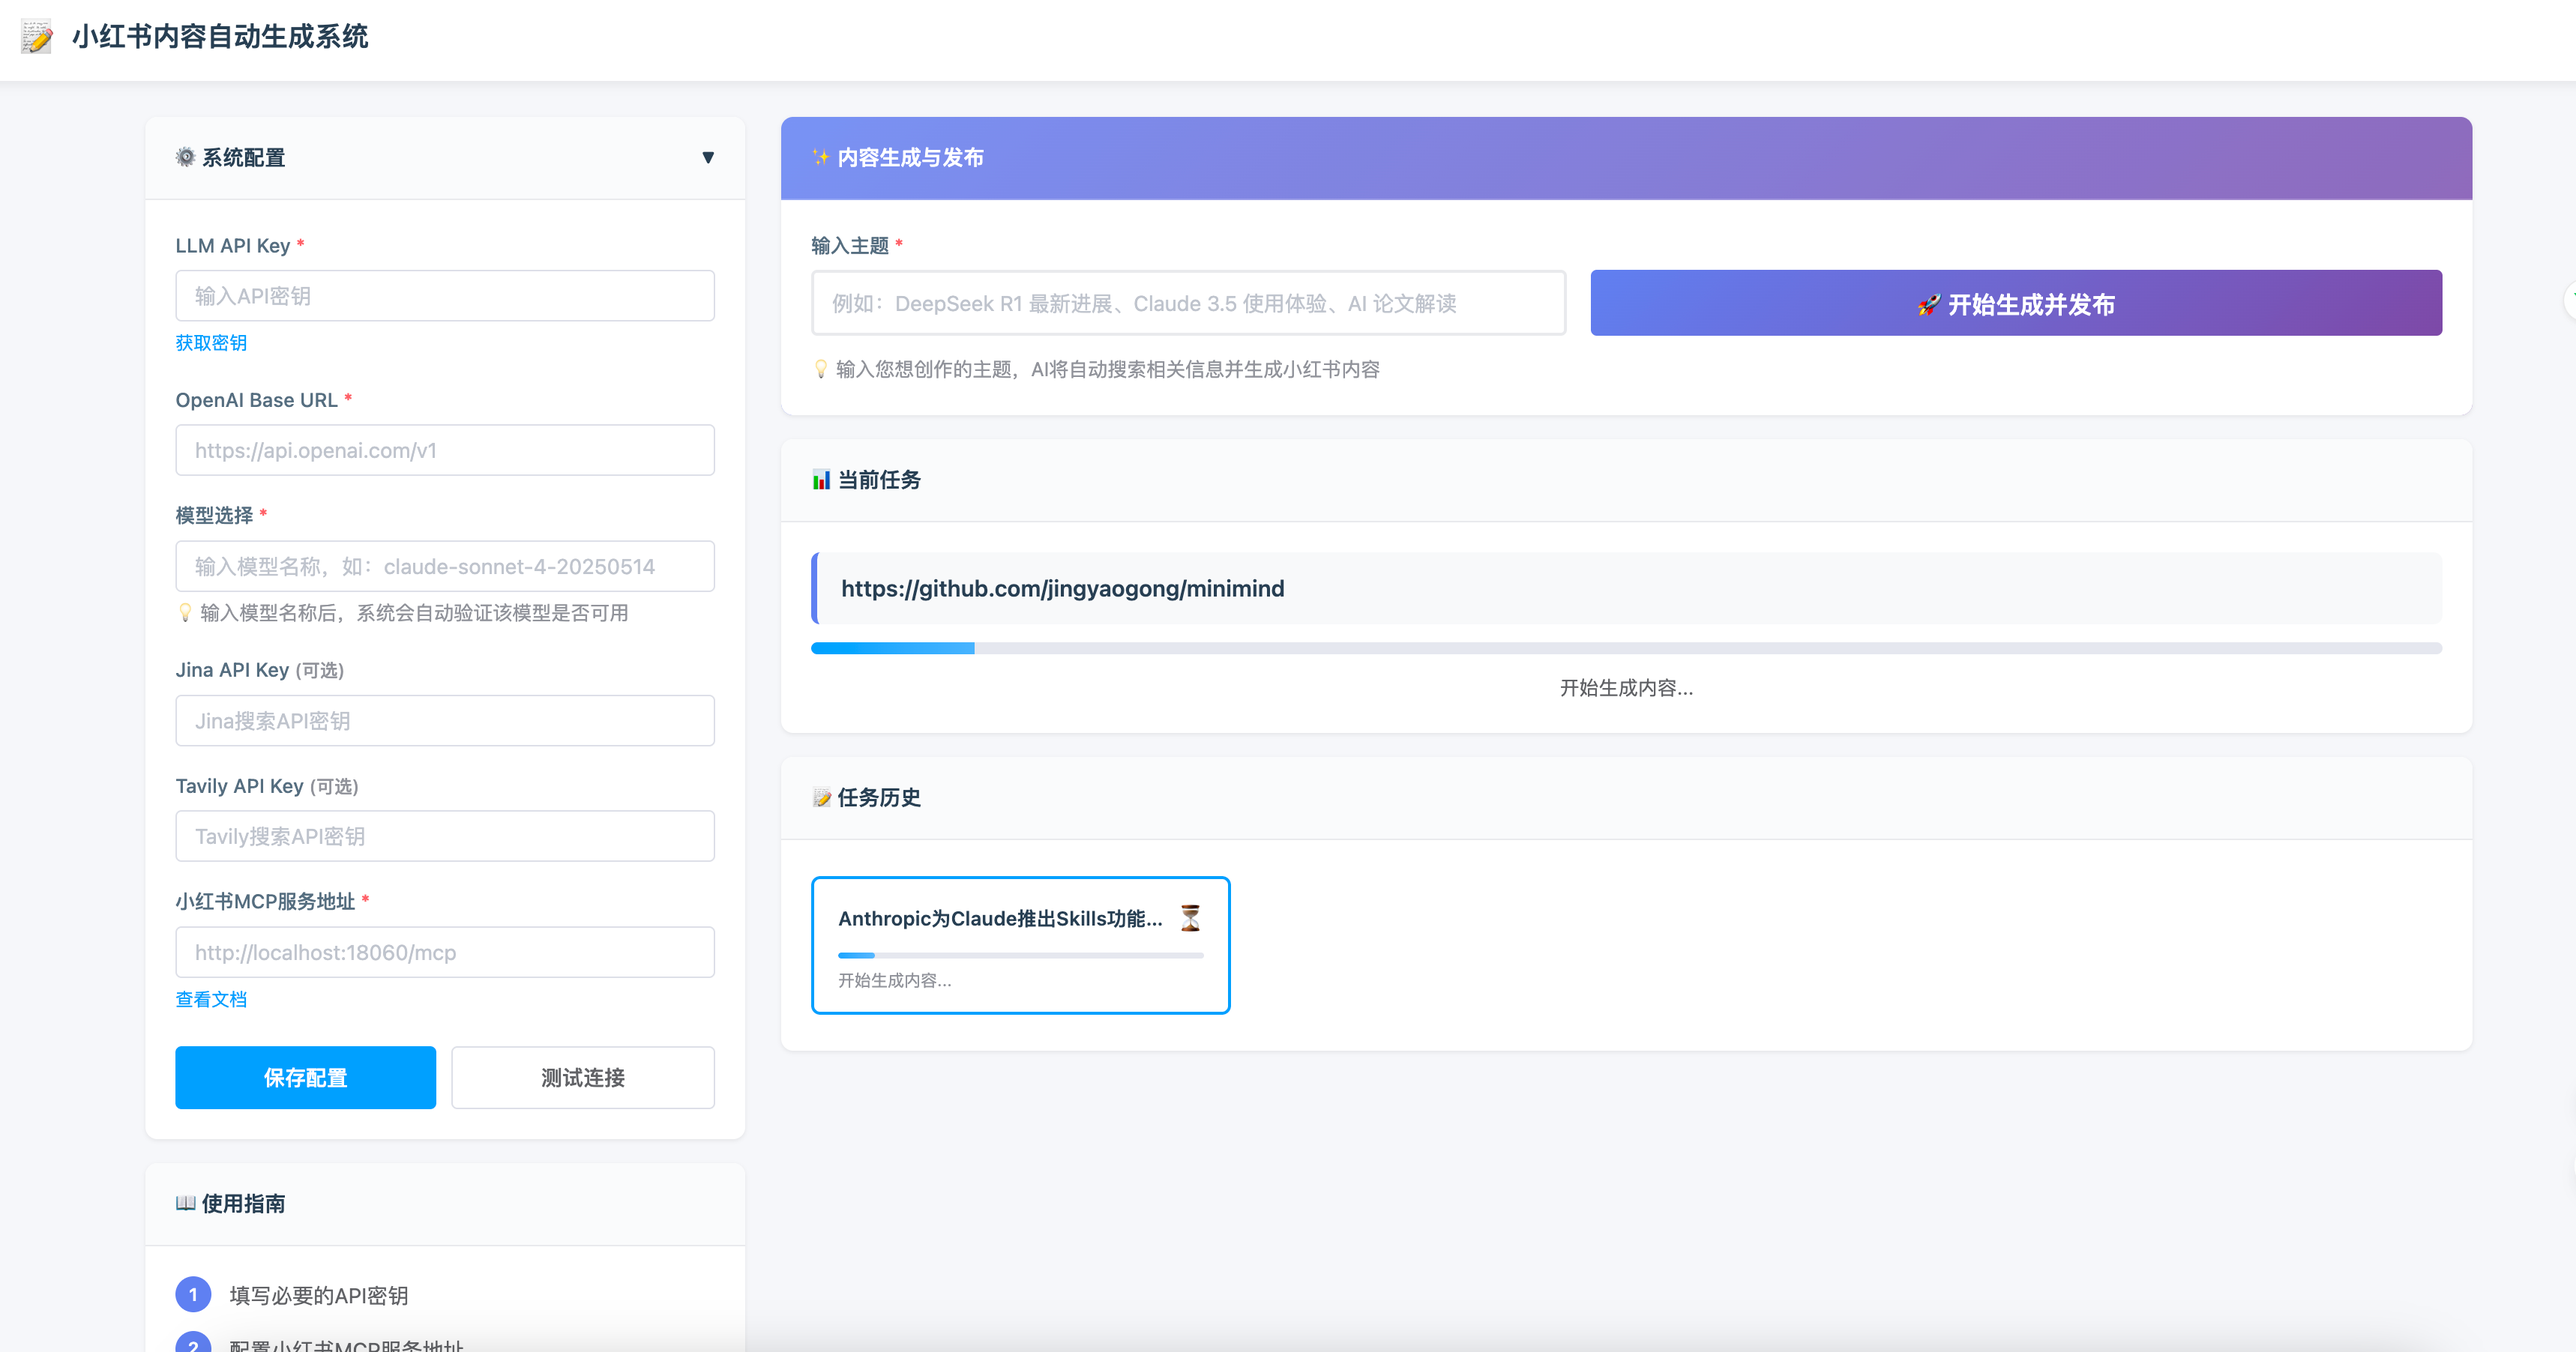
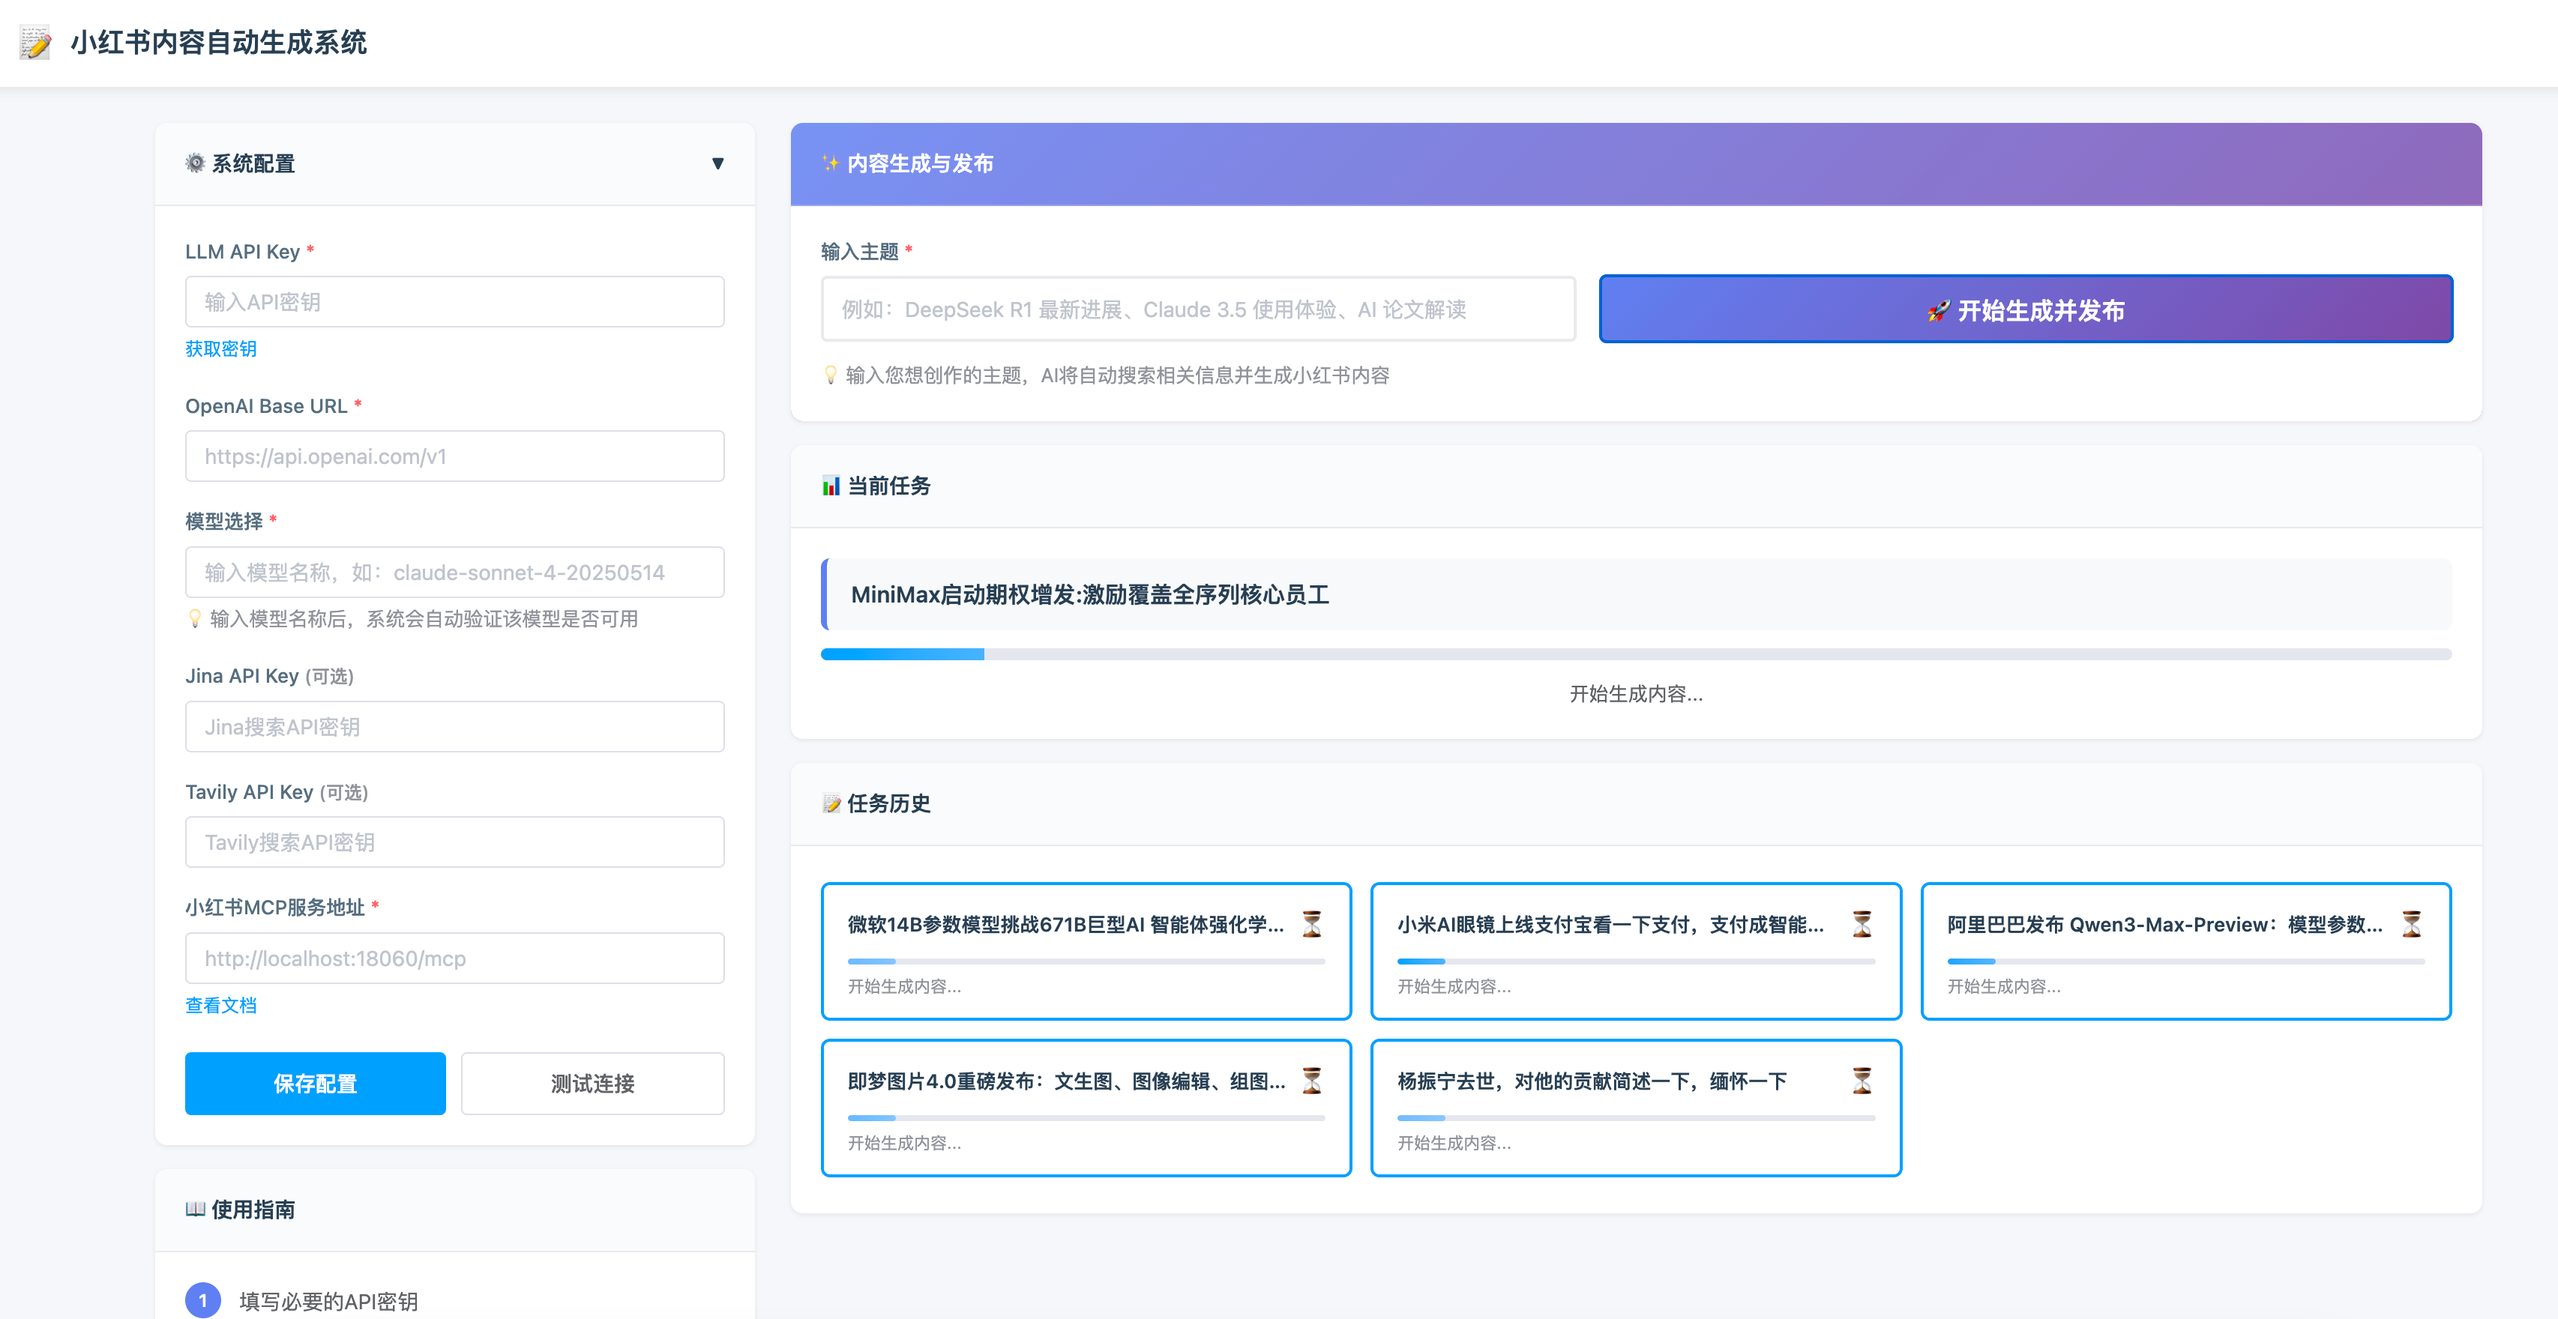
Multitasking pages

diff --git a/static/js/app.js b/static/js/app.js
@@ -3,8 +3,8 @@ const API_BASE = '/api';
 // 防抖函数
 let modelValidationTimeout = null;
 
-// 任务管理 - 简化版
-let currentTaskTopic = null;
+// 任务管理 - 重新设计
+let taskCardMap = {}; // { taskId: cardId } 映射任务ID到卡片ID
 
 // 折叠面板
 function togglePanel(panelId) {
@@ -160,20 +160,83 @@ async function testConnection() {
     }
 }
 
-// 更新进度
-function updateProgress(percent, text) {
-    document.getElementById('progress-value').style.width = `${percent}%`;
-    document.getElementById('progress-text').textContent = text;
+// 更新进度 - 支持任务ID参数
+function updateProgress(taskIdOrPercent, percentOrText, textOrUndefined) {
+    let taskId, percent, text;
+
+    // 兼容旧的调用方式 updateProgress(percent, text)
+    if (typeof taskIdOrPercent === 'number' && typeof percentOrText === 'string') {
+        // 旧方式：updateProgress(10, '开始...')
+        taskId = null;
+        percent = taskIdOrPercent;
+        text = percentOrText;
+    } else {
+        // 新方式：updateProgress(taskId, 10, '开始...')
+        taskId = taskIdOrPercent;
+        percent = percentOrText;
+        text = textOrUndefined;
+    }
+
+    // 如果没有taskId，检查当前任务的taskId
+    if (!taskId) {
+        const currentTopicEl = document.getElementById('current-topic');
+        taskId = currentTopicEl ? currentTopicEl.dataset.taskId : null;
+    }
+
+    // 更新当前任务显示（如果是当前任务）
+    const currentTopicEl = document.getElementById('current-topic');
+    if (currentTopicEl && currentTopicEl.dataset.taskId === taskId) {
+        document.getElementById('progress-value').style.width = `${percent}%`;
+        document.getElementById('progress-text').textContent = text;
+    }
+
+    // 更新历史卡片（如果任务在历史中）
+    if (taskId && taskCardMap[taskId]) {
+        const cardId = taskCardMap[taskId];
+        const card = document.getElementById(cardId);
+        if (card) {
+            // 更新进度条
+            const progressBar = card.querySelector('.task-card-progress-value');
+            if (progressBar) {
+                progressBar.style.width = `${percent}%`;
+            }
+
+            // 更新进度文字
+            const progressText = card.querySelector('.task-card-progress-text');
+            if (progressText) {
+                progressText.textContent = text;
+            }
+
+            // 更新状态
+            let status = 'running';
+            let statusIcon = '⏳';
+            if (percent === 100) {
+                status = 'success';
+                statusIcon = '✅';
+            } else if (text.includes('失败') || text.includes('错误')) {
+                status = 'error';
+                statusIcon = '❌';
+            }
+
+            card.className = `task-card ${status}`;
+            const statusEl = card.querySelector('.task-card-status');
+            if (statusEl) {
+                statusEl.textContent = statusIcon;
+            }
+        }
+    }
 }
 
-// 将当前任务添加到历史 - 超级简化版
+// 将当前任务添加到历史
 function moveCurrentToHistory() {
-    const currentTopic = document.getElementById('current-topic').textContent;
+    const currentTopicEl = document.getElementById('current-topic');
+    const currentTopic = currentTopicEl.textContent;
+    const currentTaskId = currentTopicEl.dataset.taskId;
     const currentProgress = parseInt(document.getElementById('progress-value').style.width) || 0;
     const currentText = document.getElementById('progress-text').textContent;
 
     // 如果当前任务不是初始状态，才添加到历史
-    if (currentTopic !== '等待任务开始...') {
+    if (currentTopic !== '等待任务开始...' && currentTaskId) {
         const historyPanel = document.getElementById('history-panel');
         const historyContainer = document.getElementById('task-history');
 
@@ -191,8 +254,10 @@ function moveCurrentToHistory() {
             statusIcon = '❌';
         }
 
-        // 创建历史卡片
+        // 创建历史卡片，使用唯一ID
+        const cardId = 'task-card-' + Date.now();
         const card = document.createElement('div');
+        card.id = cardId;
         card.className = `task-card ${status}`;
         card.innerHTML = `
             <div class="task-card-header">
@@ -210,14 +275,17 @@ function moveCurrentToHistory() {
         // 插入到最前面
         historyContainer.insertBefore(card, historyContainer.firstChild);
 
-        // 自动滚动
+        // 建立任务ID到卡片ID的映射
+        taskCardMap[currentTaskId] = cardId;
+
+        // 自动滚动到历史面板
         setTimeout(() => {
-            card.scrollIntoView({ behavior: 'smooth', block: 'nearest', inline: 'start' });
+            historyPanel.scrollIntoView({ behavior: 'smooth', block: 'nearest' });
         }, 100);
     }
 }
 
-// 开始生成 - 超级简化版
+// 开始生成 - 带任务ID追踪
 async function startGenerate() {
     const topic = document.getElementById('topic').value.trim();
 
@@ -226,11 +294,16 @@ async function startGenerate() {
         return;
     }
 
+    // 创建新任务ID
+    const taskId = 'task-' + Date.now();
+
     // 将当前任务移到历史
     moveCurrentToHistory();
 
-    // 更新当前任务
-    document.getElementById('current-topic').textContent = topic;
+    // 更新当前任务，保存任务ID
+    const currentTopicEl = document.getElementById('current-topic');
+    currentTopicEl.textContent = topic;
+    currentTopicEl.dataset.taskId = taskId;
 
     // 清空输入框
     document.getElementById('topic').value = '';
@@ -239,7 +312,7 @@ async function startGenerate() {
     document.getElementById('result-panel').style.display = 'none';
 
     // 开始进度
-    updateProgress(10, '开始生成内容...');
+    updateProgress(taskId, 10, '开始生成内容...');
 
     try {
         const response = await fetch(`${API_BASE}/generate-and-publish`, {
@@ -249,30 +322,30 @@ async function startGenerate() {
         });
 
         // 模拟进度更新
-        updateProgress(30, '正在检索相关信息...');
+        updateProgress(taskId, 30, '正在检索相关信息...');
         await sleep(800);
 
-        updateProgress(50, '正在生成文章内容...');
+        updateProgress(taskId, 50, '正在生成文章内容...');
         await sleep(800);
 
-        updateProgress(70, '正在优化内容...');
+        updateProgress(taskId, 70, '正在优化内容...');
         await sleep(800);
 
-        updateProgress(90, '正在发布到小红书...');
+        updateProgress(taskId, 90, '正在发布到小红书...');
 
         const data = await response.json();
 
         if (data.success) {
-            updateProgress(100, '发布成功！');
+            updateProgress(taskId, 100, '发布成功！');
             await sleep(500);
             showResult(data.data);
             showToast('内容生成并发布成功', 'success');
         } else {
-            updateProgress(0, data.error || '生成失败');
+            updateProgress(taskId, 0, data.error || '生成失败');
             showToast(data.error || '生成失败', 'error');
         }
     } catch (error) {
-        updateProgress(0, `操作失败: ${error.message}`);
+        updateProgress(taskId, 0, `操作失败: ${error.message}`);
         showToast(`操作失败：${error.message}`, 'error');
     }
 }

diff --git a/static/css/style.css b/static/css/style.css
@@ -271,33 +271,13 @@ body {
 
 /* 任务历史 */
 .task-history {
-    display: flex;
+    display: grid;
+    grid-template-columns: repeat(auto-fill, minmax(280px, 1fr));
     gap: 12px;
-    overflow-x: auto;
     padding: 4px 0;
 }
 
-.task-history::-webkit-scrollbar {
-    height: 6px;
-}
-
-.task-history::-webkit-scrollbar-track {
-    background: #f1f1f1;
-    border-radius: 3px;
-}
-
-.task-history::-webkit-scrollbar-thumb {
-    background: #c0c4cc;
-    border-radius: 3px;
-}
-
-.task-history::-webkit-scrollbar-thumb:hover {
-    background: #909399;
-}
-
 .task-card {
-    min-width: 280px;
-    max-width: 280px;
     padding: 12px 16px;
     background: #fff;
     border: 2px solid #e4e7ed;
@@ -717,6 +697,10 @@ body {
     #result-images {
         grid-template-columns: repeat(3, 1fr);
     }
+
+    .task-history {
+        grid-template-columns: repeat(auto-fill, minmax(250px, 1fr));
+    }
 }
 
 @media (max-width: 768px) {
@@ -752,5 +736,9 @@ body {
 
     .generate-form .btn-generate {
         width: 100%;
+    }
+
+    .task-history {
+        grid-template-columns: 1fr;
     }
 }

diff --git a/README_ZH.md b/README_ZH.md
@@ -8,7 +8,7 @@
 简单来说：输入一个主题所有 AI 帮你搞定，直接发布到你的小红书账号上
 
 ![img.png](pages/img.png)
-
+![img.png](pages/img_2.png)
 
 ## ✨ 功能特点
 
